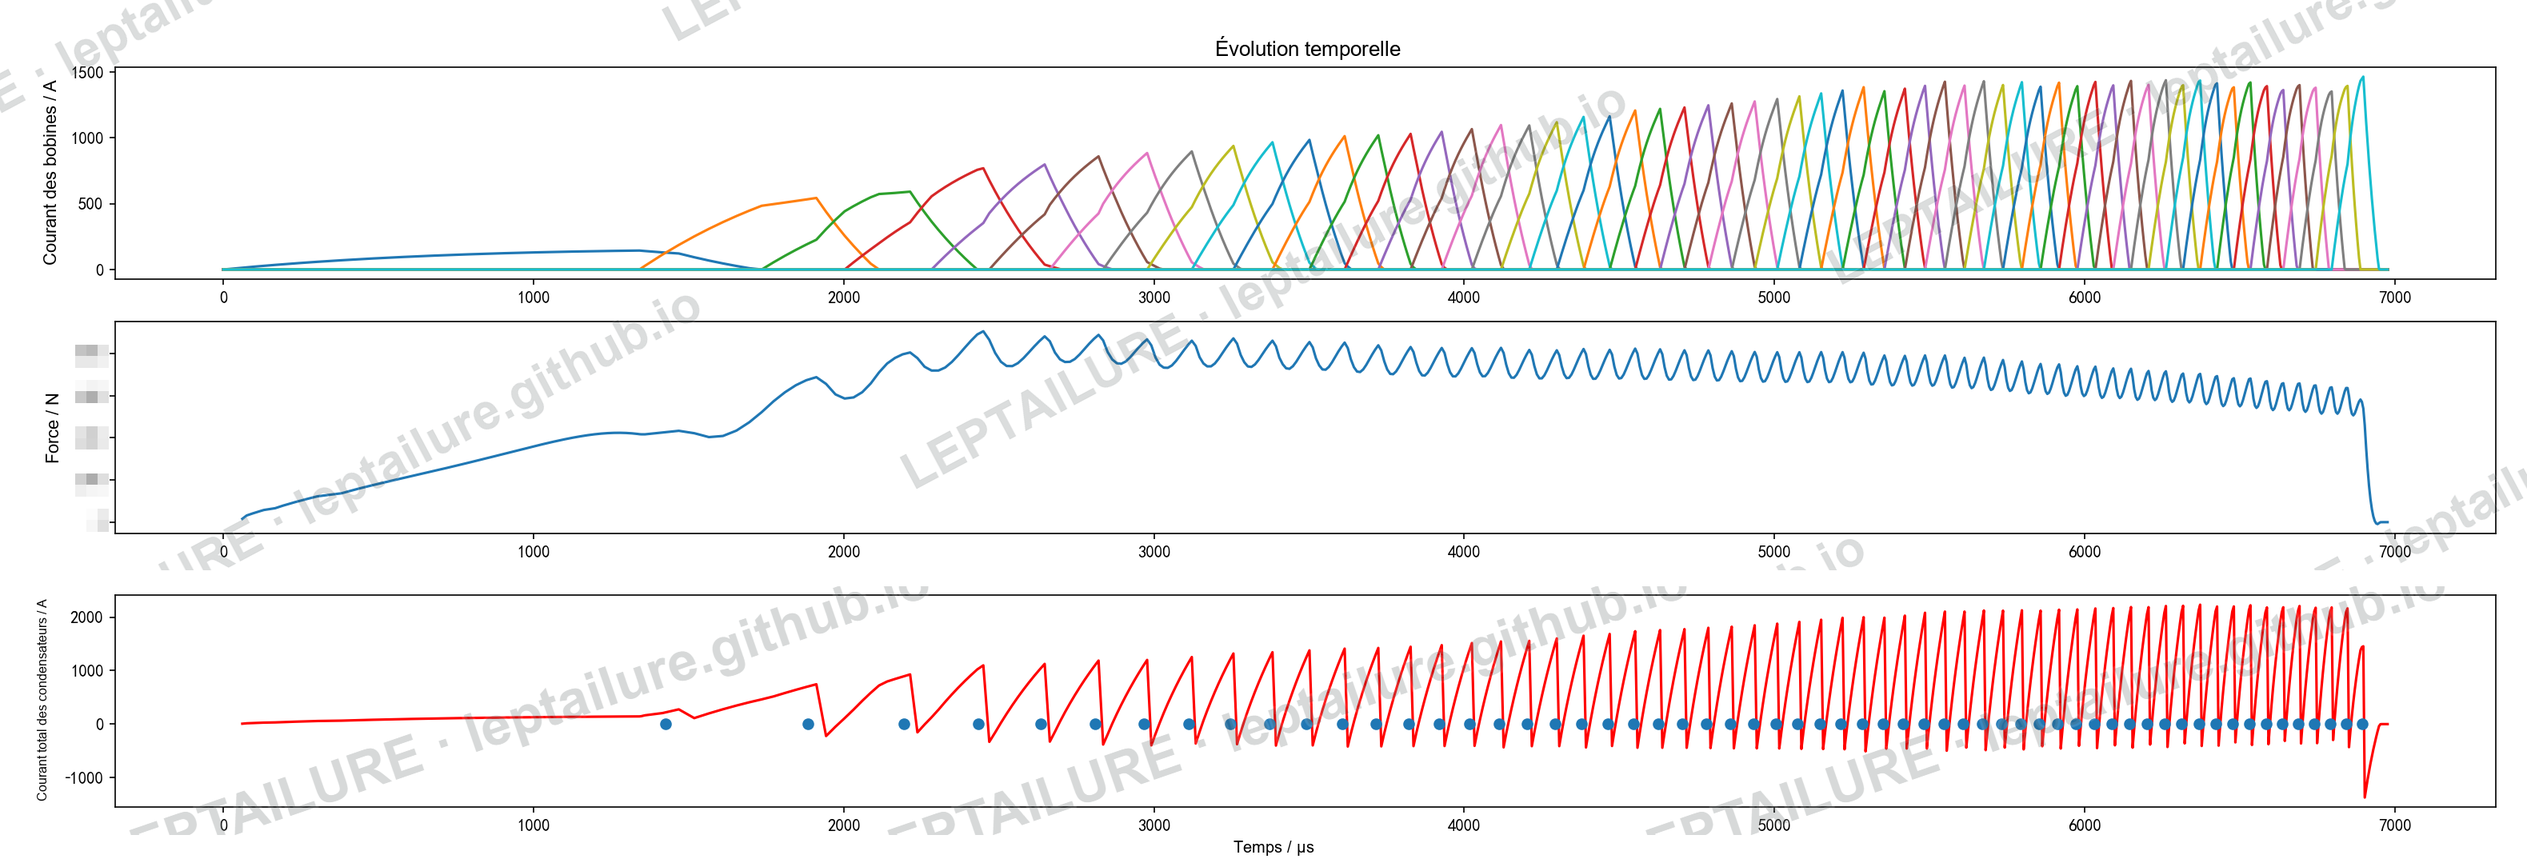
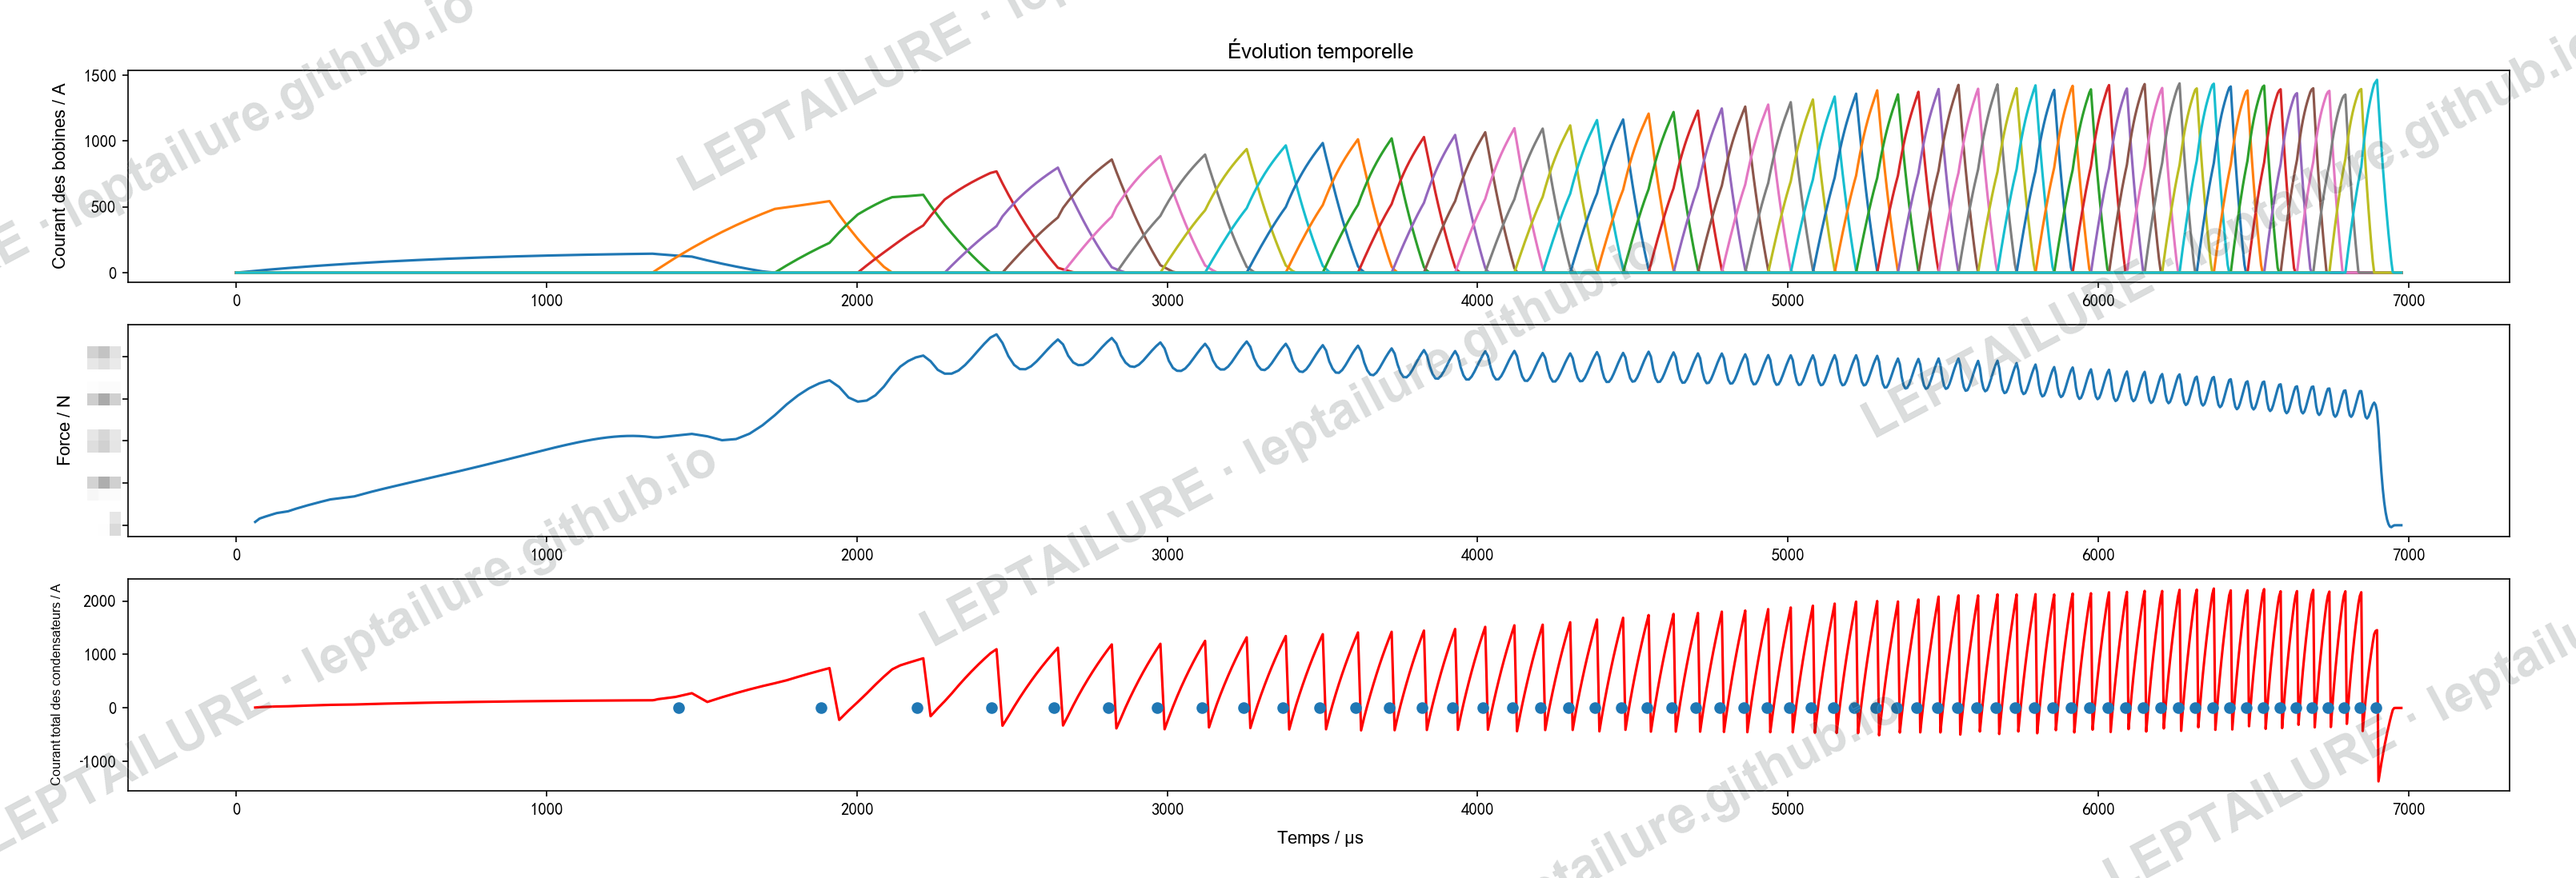
Use the complete original 26R1 time plot with French labels

diff --git a/projects/reluctance.html b/projects/reluctance.html
@@ -62,7 +62,7 @@
     <p>Les essais ponctuels du composant IGBT ont atteint environ 2 800 A sur une impulsion de 400 µs. Cette observation expérimentale concerne le composant dans les conditions de cet essai ; les résultats d’optimisation présentés ici restent des résultats de simulation.</p>
     <h3 id="evolution-temporelle">Évolution temporelle des courants et de la force</h3>
     <figure class="python-figure">
-      <a href="reluctance-media/python-26r1-time-series-public.png?v=time-fr-1" aria-label="Agrandir les courants des bobines, la force et le courant total sur une même base de temps"><img src="reluctance-media/python-26r1-time-series-public.png?v=time-fr-1" alt="Trois relevés de simulation superposés : courants individuels des bobines, force avec graduations numériques masquées, puis courant total du banc de condensateurs ; abscisses en microsecondes" width="3159" height="1074" loading="lazy" decoding="async"></a>
+      <a href="reluctance-media/python-26r1-time-series-public.png?v=time-fr-original-2" aria-label="Agrandir les courants des bobines, la force et le courant total sur une même base de temps"><img src="reluctance-media/python-26r1-time-series-public.png?v=time-fr-original-2" alt="Trois relevés de simulation superposés : courants individuels des bobines, force avec graduations numériques masquées, puis courant total du banc de condensateurs ; abscisses en microsecondes" width="3219" height="1098" loading="lazy" decoding="async"></a>
       <figcaption>Simulation Python. De haut en bas : courants des bobines, force et courant total du banc de condensateurs. Les trois graphiques se lisent sur la même base de temps ; les abscisses sont exprimées en microsecondes (µs).</figcaption>
     </figure>
   </section>
